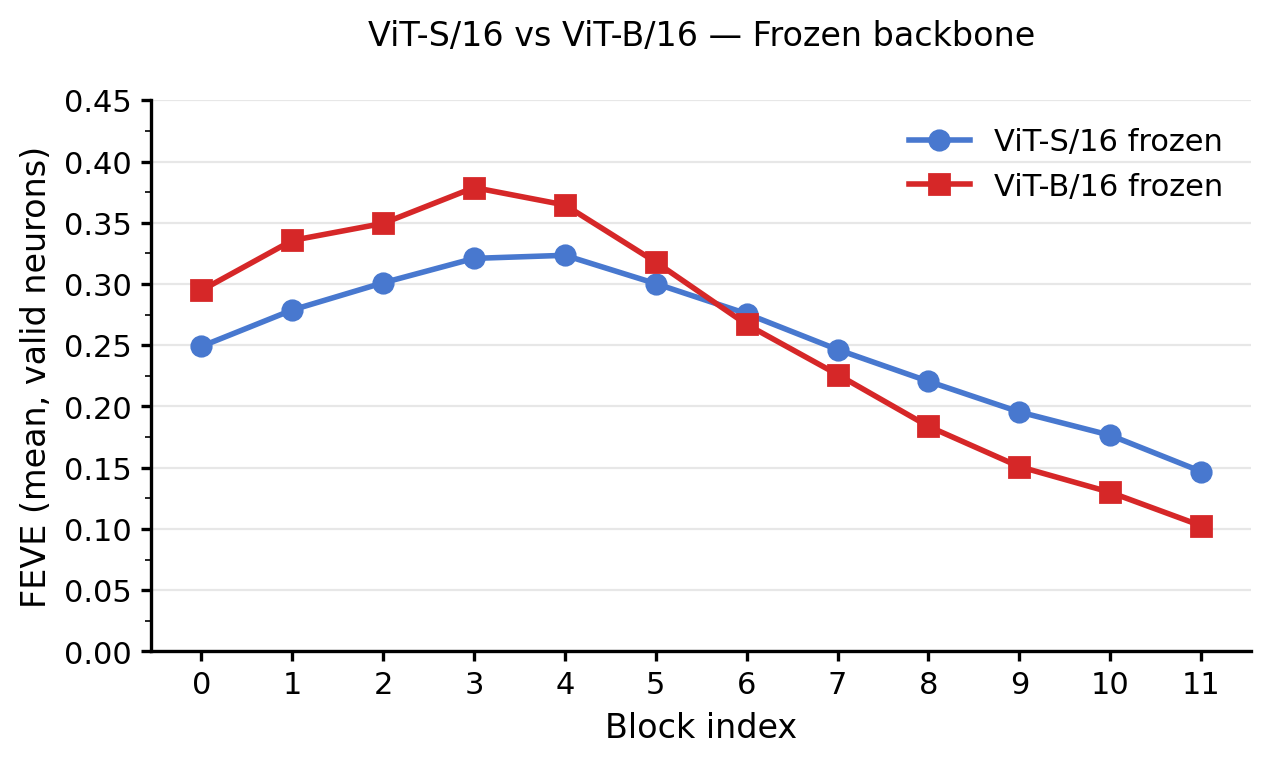
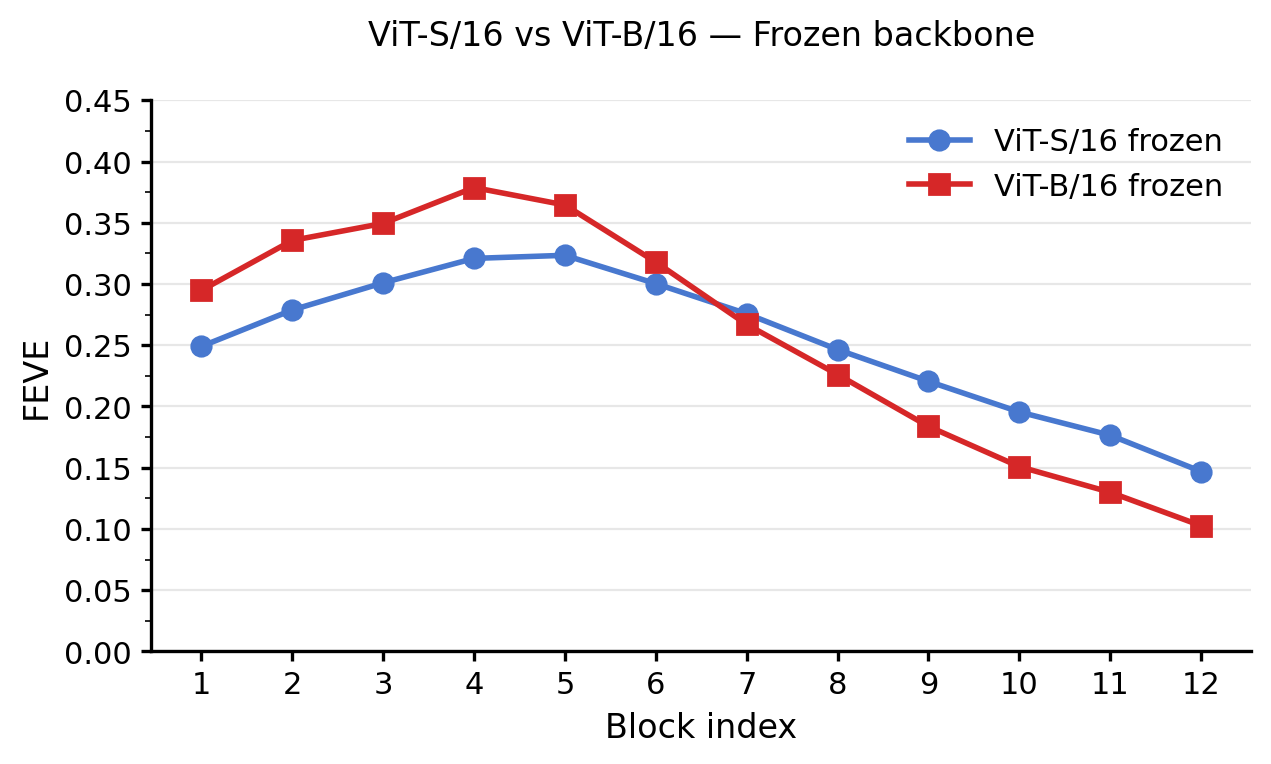
update

diff --git a/README.md b/README.md
@@ -1,11 +1,11 @@
 # minimodel-vit
 
-Encoding models for mouse primary visual cortex (V1) using a Vision Transformer (ViT) backbone with the [minimodel](https://github.com/MouseLand/minimodel) readout. The project asks a simple question: **can we directly plug frozen (or lightly fine-tuned) DINOv3 patch features into the minimodel readout and match the performance of the task-optimized CNN core?**
+Encoding models for mouse primary visual cortex (V1) using a Vision Transformer (ViT) backbone with the [minimodel](https://github.com/MouseLand/minimodel) readout. The project asks a simple question: **can we directly plug frozen (or lightly fine-tuned) DINOv3 patch features with the minimodel readout and match the performance of the task-optimized CNN core?**
 
 Two training regimes are compared:
 
-1. **Frozen backbone** — the ViT is used purely as a feature extractor; only the linear readout is trained.
-2. **Fine-tuned backbone** — the last *N* transformer blocks are unfrozen and jointly optimized with the readout at a lower learning rate (experiments: N = 1, 2, 3, 4).
+1. **Frozen backbone** — the ViT is used purely as a feature extractor; only the readout is trained.
+2. **Fine-tuned backbone** — the last *N* transformer blocks are unfrozen and jointly optimized with the readout at a lower learning rate.
 
 Results are compared against the CNN fullmodel (2-layer depth-separable convolutional core + readout) to assess what large-scale visual pretraining adds to neural predictivity.
 
@@ -39,7 +39,7 @@ Output: `(N, 3, 64, 128)` tensors fed to the ViT.
 | Spatial output grid | 4 × 8 (from 64 × 128 input) | 4 × 8 |
 | Register tokens | 4 (DINOv3) | 4 |
 
-Features can be extracted from any of the 12 transformer blocks, giving 12 possible readout points in total.
+Features can be extracted from any of the 12 transformer blocks, giving 12 possible readouts in total.
 
 ### Architecture: how ViT and readout are concatenated
 
@@ -59,7 +59,7 @@ patch features  (N, D, 4, 8)         ← D = 384 (ViT-S) or 768 (ViT-B)
 predicted firing rates  (N, n_neurons)
 ```
 
-The key design choice is that **each 16×16 patch token is treated as one spatial location** in a 4×8 grid. The readout from the minimodel learns a per-neuron separable weight map over this grid and a linear combination of feature channels. This is identical to the readout applied to the CNN core feature maps, making the comparison between ViT and CNN fair at the readout level.
+The key design choice is that **each 16×16 patch token is treated as one spatial location** in a 4×8 grid. The readout from the minimodel learns a per-neuron separable weight map over this grid and a linear combination of feature channels. This is identical to the readout applied to the CNN core feature maps.
 
 ### Training protocol
 
@@ -70,7 +70,7 @@ The key design choice is that **each 16×16 patch token is treated as one spatia
 - Early stopping when LR reaches `min_lr=1e-5`.
 
 **Fine-tuned backbone:**
-- Initialized from the frozen-backbone checkpoint (warm-started readout).
+- Initialized from the frozen-backbone checkpoint.
 - Last *N* transformer blocks unfrozen (experiments: N = 1, 2, 3, 4).
 - Three learning-rate groups: backbone `lr=1e-5`, readout `lr=1e-3`.
 - LR schedule: CosineAnnealingLR over max 100 epochs.
@@ -80,65 +80,65 @@ The key design choice is that **each 16×16 patch token is treated as one spatia
 
 ## Results
 
-All results are on mouse **FX10** (4,792 neurons, 500 held-out test images × 10 repeats). Valid neurons are defined as FEV > 0.15 (approximately 3,040 / 4,792 neurons pass). FEVE (fraction of explainable variance explained) is averaged over valid neurons.
+All results are on mouse **FX10** (4,792 neurons, 500 held-out test images × 10 repeats). Valid neurons are defined as FEV > 0.15 (approximately 3,040 / 4,792 neurons). FEVE (fraction of explainable variance explained) is averaged over valid neurons.
 
 ### Figure 1a — FEVE by block (frozen ViT-S/16)
 
 <div align="center"><img src="figures/fig1a_frozen_feve_vs_block.png" width="80%"></div>
 
-Frozen ViT-S/16 features extracted from each transformer block. FEVE peaks at **block 4 (~0.32)**, indicating that low-to-mid-level representations are most predictive of V1 responses. Performance declines steadily in later blocks as representations become more semantic.
+Frozen ViT-S/16 features extracted from each transformer block. FEVE peaks at **block 5 (~0.32)**, indicating that low-to-mid-level representations are most predictive of V1 responses. Performance declines steadily in later blocks as representations become more semantic.
 
 ### Figure 1b — Frozen vs. Fine-tuned ViT-S/16
 
 <div align="center"><img src="figures/fig1b_frozen_vs_ft2_feve_vs_block.png" width="80%"></div>
 
-Fine-tuning the last 2 blocks consistently improves FEVE across all ViT depths. The fine-tuned peak rises to **block 3–4 (~0.52)**, up from ~0.32 frozen. The block-ordering of performance is preserved after fine-tuning.
+Fine-tuning the last 2 blocks consistently improves FEVE across all ViT depths. The fine-tuned peak rises to **block 4–5 (~0.52)**, up from ~0.32 frozen. The block-ordering of performance is preserved after fine-tuning.
 
 ### Figure 2 — FEVE distribution at best blocks (ViT-S/16)
 
 <div align="center"><img src="figures/fig2_best_blocks_comparison.png" width="80%"></div>
 
-Violin plots of per-neuron FEVE at blocks 3 and 4 across five conditions: Frozen, FT-1, FT-2, FT-3, and FT-4 blocks. Fine-tuning raises the mean FEVE progressively with each additional unfrozen block, from **~0.32 (frozen)** to **~0.54 (FT-4 blocks)**. 
+Violin plots of mean FEVE at blocks 4 and 5 across five conditions: Frozen, FT-1, FT-2, FT-3, and FT-4 blocks. Fine-tuning raises the mean FEVE progressively with each additional unfrozen block, from **~0.32 (frozen)** to **~0.54 (FT-4 blocks)**. 
 
 ### Figure 2b — Best-block FEVE distribution (ViT-S vs. ViT-B, all fine-tuning levels)
 
 <div align="center"><img src="figures/fig2b_vits_vs_vitb_best_blocks.png" width="100%"></div>
 
-Side-by-side comparison of per-neuron FEVE at the best block for ViT-S/16 and ViT-B/16 across all fine-tuning conditions. In the frozen setting, ViT-B/16 outperforms ViT-S/16 (0.38 vs. 0.32). After fine-tuning 4 blocks, **ViT-S/16 slightly surpasses ViT-B/16** (0.5449 vs. 0.5309), suggesting the smaller model adapts more efficiently.
+Comparison of mean FEVE at the best block for ViT-S/16 and ViT-B/16 across all fine-tuning conditions. In the frozen setting, ViT-B/16 outperforms ViT-S/16 (0.38 vs. 0.32). After fine-tuning 4 blocks, **ViT-S/16 slightly surpasses ViT-B/16** (0.5449 vs. 0.5309), suggesting the smaller model adapts more efficiently with our data.
 
 ### Figure 3 — ViT-S/16 vs. ViT-B/16 (frozen)
 
 <div align="center"><img src="figures/fig3_vits_vs_vitb_frozen_feve_vs_block.png" width="80%"></div>
 
-Comparing frozen ViT-Small (384-dim) and ViT-Base (768-dim). ViT-B/16 outperforms ViT-S/16 in early-to-mid blocks, peaking at **block 3 (~0.38 vs. ~0.32)**. Both models degrade sharply at later blocks.
+Comparing frozen ViT-Small and ViT-Base. ViT-B/16 outperforms ViT-S/16 in early-to-mid blocks, peaking at **block 4 (~0.38 vs. ~0.32)**. 
 
 ### Figure 4 — All conditions (frozen & fine-tuned, ViT-S and ViT-B)
 
 <div align="center"><img src="figures/fig4_vits_vs_vitb_frozen_and_ft_feve_vs_block.png" width="80%"></div>
 
-Full comparison across both model sizes and both training regimes. All curves peak around blocks 3–4. Fine-tuning narrows the gap between ViT-S and ViT-B. Later blocks (9–11) show divergent behavior after fine-tuning, likely due to overfitting with less-predictive features.
+Comparison across both model sizes and training regimes. All curves peak around blocks 4–5. Fine-tuning narrows the gap between ViT-S and ViT-B. Later blocks show divergent behavior after fine-tuning, likely due to overfitting with less-predictive features.
 
 ### Figure 5 — Best-block FEVE (ViT-S vs. ViT-B, frozen and FT-2)
 
 <div align="center"><img src="figures/fig5_best_block_vits_vs_vitb.png" width="80%"></div>
 
-Mean FEVE at the best block, comparing frozen and FT-2-block conditions for both architectures. Fine-tuning 2 blocks roughly doubles the frozen-to-FT gain relative to the old runs, reaching ~0.51 for both ViT-S and ViT-B.
+Mean FEVE at the best block, comparing frozen and FT-4-block conditions for both architectures. Fine-tuning 4 blocks improves the performance relative to the old runs, reaching ~0.54 for both ViT-S and ViT-B.
 
 ### Summary table
 
 | Model | Best block | FEVE (mean, valid neurons) |
 |---|---|---|
 | CNN fullmodel (2-layer depth-sep. conv, 16/320 filters) | — | **0.6654** |
-| ViT-S/16 frozen | 4 | 0.3234 |
-| ViT-S/16 FT-1 block | 3 | 0.4896 |
-| ViT-S/16 FT-2 blocks | 3 | 0.5168 |
-| ViT-S/16 FT-3 blocks | 3 | 0.5255 |
-| ViT-S/16 FT-4 blocks | 4 | **0.5449** (best ViT-S) |
-| ViT-B/16 frozen | 3 | 0.3787 |
-| ViT-B/16 FT-1 block | 3 | 0.4712 |
-| ViT-B/16 FT-2 blocks | 3 | 0.5112 |
-| ViT-B/16 FT-3 blocks | 3 | 0.5293 |
-| ViT-B/16 FT-4 blocks | 3 | 0.5309 |
+| ViT-S/16 frozen | 5 | 0.3234 |
+| ViT-S/16 FT-1 block | 4 | 0.4896 |
+| ViT-S/16 FT-2 blocks | 4 | 0.5168 |
+| ViT-S/16 FT-3 blocks | 4 | 0.5255 |
+| ViT-S/16 FT-4 blocks | 5 | **0.5449** (best ViT-S) |
+| ViT-B/16 frozen | 4 | 0.3787 |
+| ViT-B/16 FT-1 block | 4 | 0.4712 |
+| ViT-B/16 FT-2 blocks | 4 | 0.5112 |
+| ViT-B/16 FT-3 blocks | 4 | 0.5293 |
+| ViT-B/16 FT-4 blocks | 4 | 0.5309 |
 
 The best ViT model (ViT-S/16 FT-4 blocks) achieves **0.5449 FEVE**, compared to **0.6654 FEVE** for the CNN fullmodel.
 
@@ -160,7 +160,7 @@ In a transformer, every patch token attends to every other patch token. Even at 
 
 ### Block-ordering of performance
 
-The consistent FEVE peak at blocks 3–4 (out of 12) for both ViT-S and ViT-B, across all fine-tuning levels, is a robust finding. It mirrors results from neural predictivity studies of ImageNet-pretrained ViTs in primate: mid-early layers best predict V1/V2 responses, while deeper layers are better aligned with higher visual areas (V4, IT).
+The consistent FEVE peak at blocks 4–5 (out of 12) for both ViT-S and ViT-B, across all fine-tuning levels, is a robust finding. It mirrors results from neural predictivity studies of ImageNet-pretrained ViTs in primate: mid-early layers best predict V1/V2 responses, while deeper layers are better aligned with higher visual areas (V4, IT).
 
 ### Fine-tuning
 
